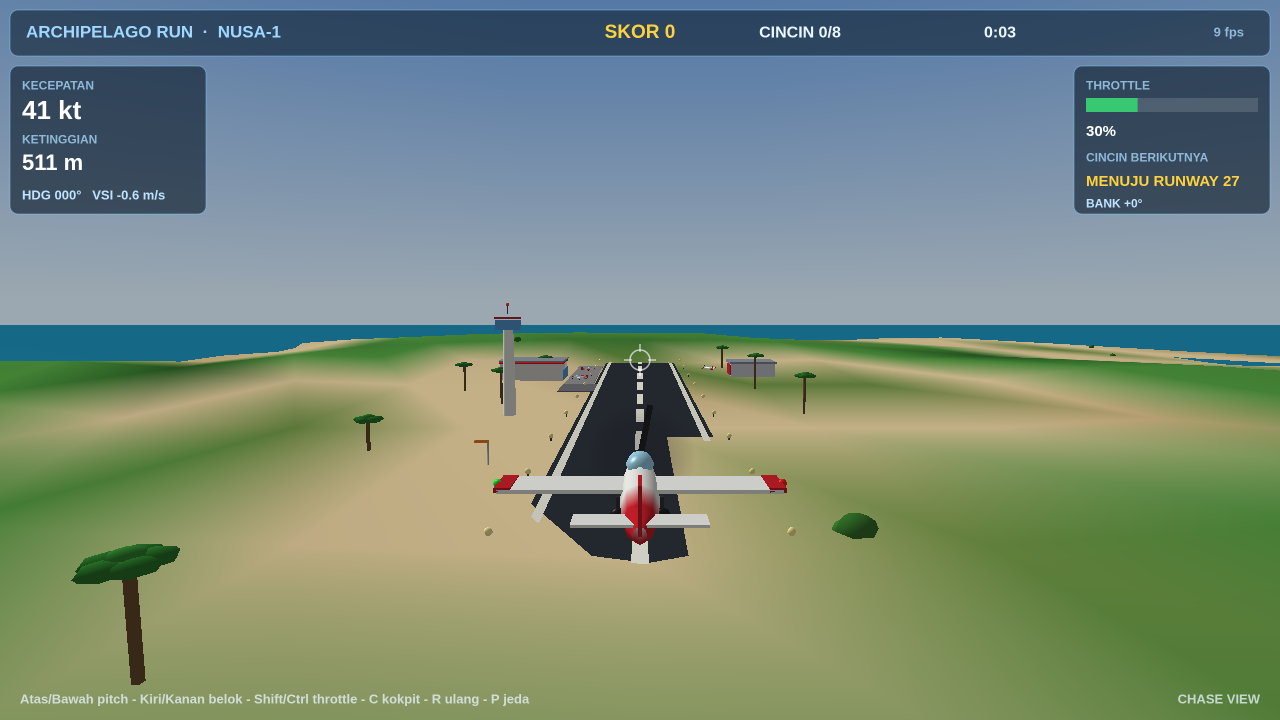
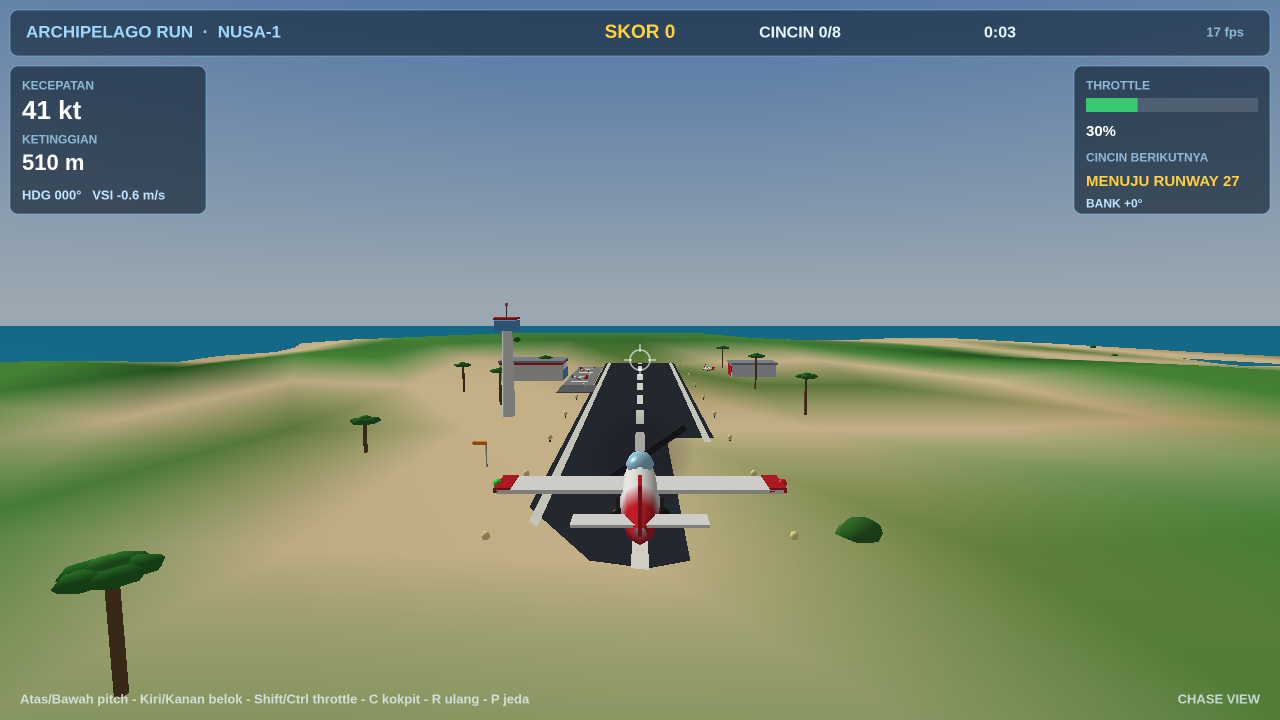
flight v2: takeoff shot reframed diagonal so the runway is not cut
- The head-on approach shot hid the problem: the plane sat on top
  of the runway and the strip read as a short chopped piece (steep
  foreshortening + the plane covering its middle). Reframed as a
  3/4 aerial view (plane offset east, heading toward the far end):
  the whole Runway 09 strip runs diagonally across the frame, near
  end to far end, with tower, terminal, hangar and parked planes
  beside it — nothing cut by an edge or by the plane
- 1-takeoff.png palette-quantized to 93 KB (cap 256 KiB)

diff --git a/game/index.html b/game/index.html
@@ -1326,7 +1326,7 @@ addEventListener('mousemove',e=>{mouseX=e.clientX/innerWidth;mouseActive=perform
 
 // ---------- scene presets ----------
 const scene=qs.get('scene');
-if(scene==='takeoff'){S.started=true;S.mode='flying';S.x=0;S.y=100;S.z=-500;S.heading=0;S.speed=25;S.throttle=0.3;S.pitch=-0.02;}
+if(scene==='takeoff'){S.started=true;S.mode='flying';S.x=300;S.y=130;S.z=-450;S.heading=-0.45;S.speed=25;S.throttle=0.3;S.pitch=-0.02;}
 else if(scene==='ring'){S.started=true;S.mode='flying';S.x=380;S.y=230;S.z=2700;S.heading=0.2;S.pitch=-0.02;S.speed=70;S.throttle=0.7;S.nextRing=2;S.rings=2;S.score=200;}
 else if(scene==='landing'){S.started=true;S.mode='flying';S.x=0;S.y=55;S.z=8530;S.speed=40;S.throttle=0.3;S.pitch=-0.06;S.nextRing=8;}
 else if(scene==='cockpit'){S.started=true;S.view='cockpit';S.throttle=0.6;S.speed=30;}
